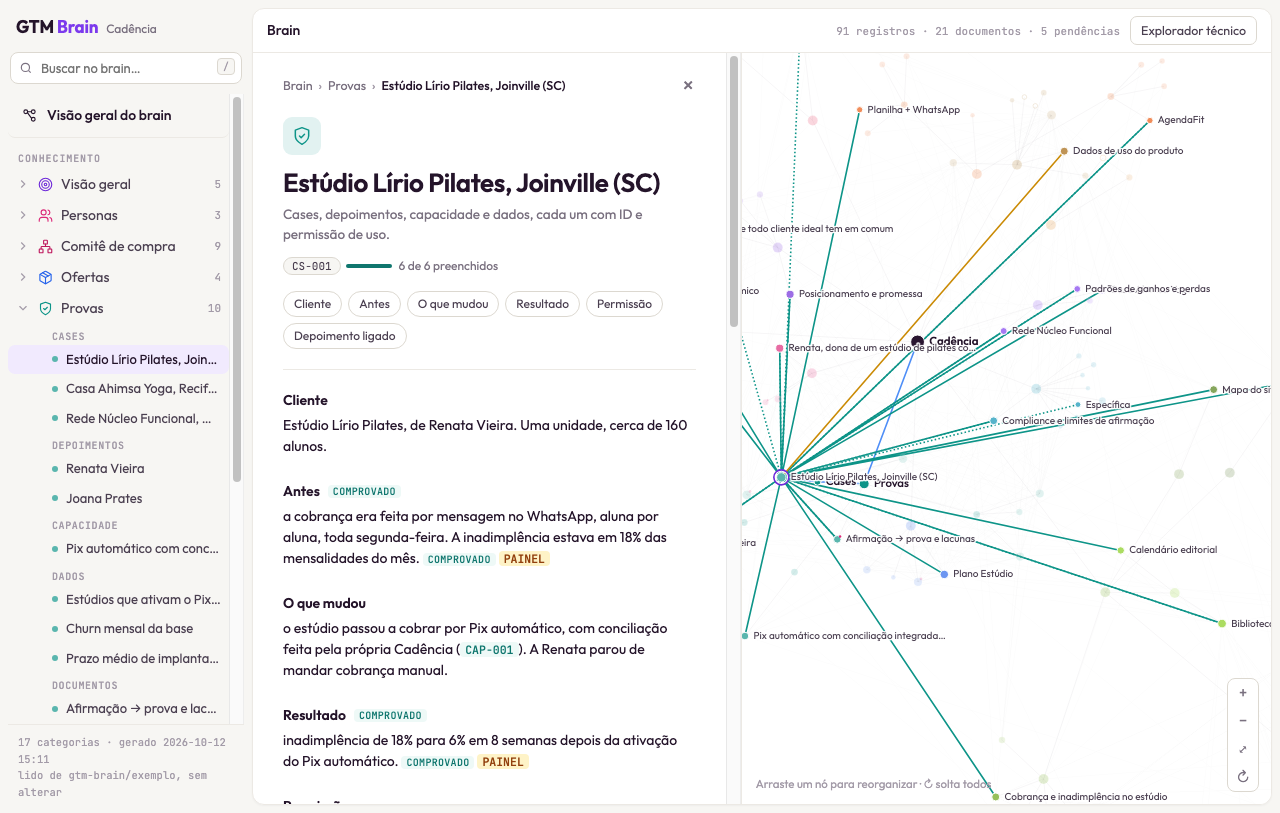
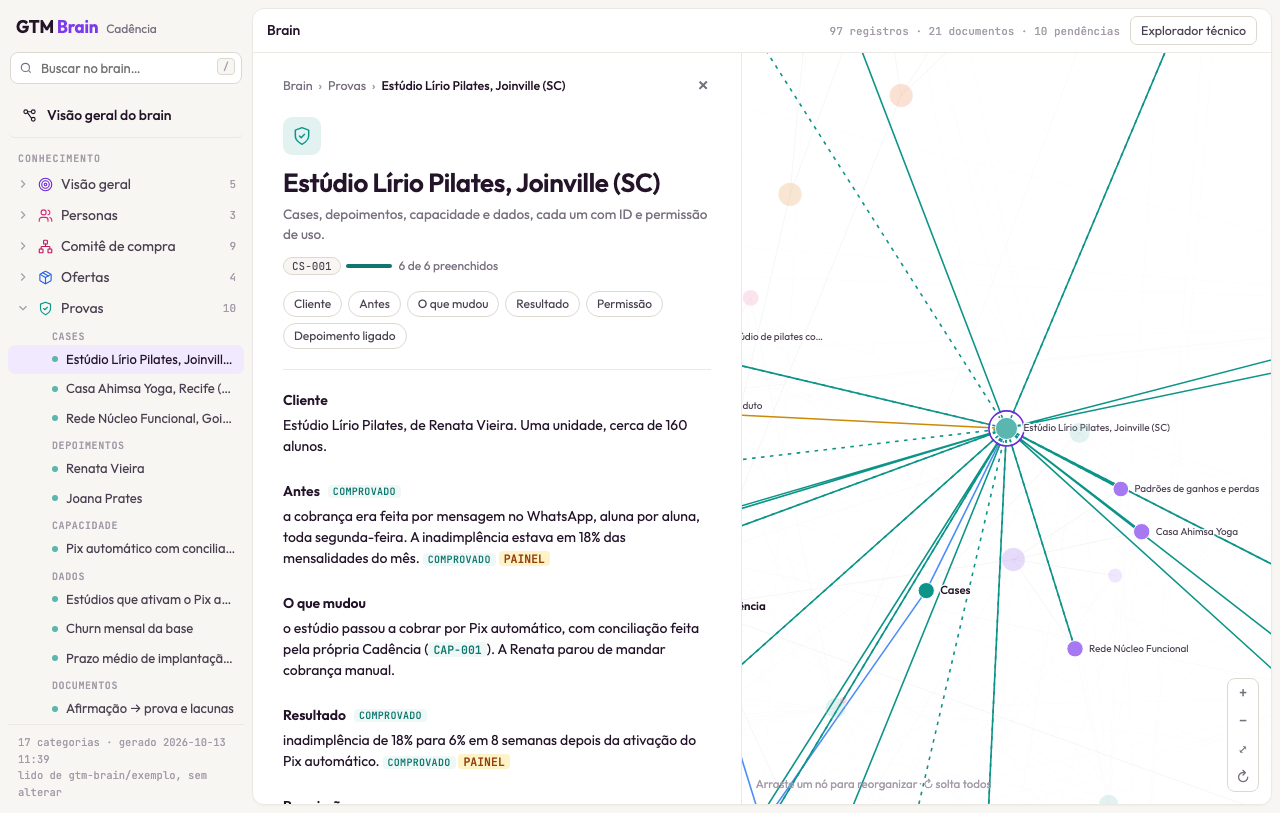
Nomes fictícios sem dono: BarraFixa no lugar de GymPro, perfis sociais .exemplo; capturas atualizadas

diff --git a/exemplo/07-site/DADOS-ESTRUTURADOS.md b/exemplo/07-site/DADOS-ESTRUTURADOS.md
@@ -5,7 +5,7 @@
 Fontes citadas neste arquivo:
 
 - `[SITE]` levantamento técnico do site por Tiago Ramos em 2026-10-02: contêiner do Google Tag Manager GTM-CAD (versão 41, publicada em 2026-09-15) e notas técnicas do site (Astro, schema no ar, FAQ de `/precos`, perfis, autores)
-- `[REDES]` insights do Instagram @cadencia.estudios e @marinaduarte.estudio, abr–set/2026
+- `[REDES]` insights do Instagram @cadencia.exemplo e @marinaduarte.exemplo, abr–set/2026
 - `[CONVERSA 2026-10-13]` respostas de Marina Duarte, CEO, sobre os dados estruturados
 
 Dados estruturados do site da Cadência (`https://cadencia.example`): os blocos JSON-LD de cada tipo de página, com os valores fixos da marca já trocados. O que muda a cada página fica entre chaves duplas dentro dos blocos de código, como `{{Título do post}}` e `{{AAAA-MM-DD}}`: troque a variável inteira, chaves incluídas. Preços iguais aos de `/05-oferta/OFERTA.md`; páginas iguais às de `/07-site/MAPA-DO-SITE.md`; autores iguais aos de `/06-seo/GEO-AEO.md`.
@@ -76,9 +76,9 @@ Fora por decisão: `Review` e `AggregateRating` (a Cadência não tem perfil em 
     { "@type": "Person", "name": "Tiago Ramos", "jobTitle": "CTO" }
   ],
   "sameAs": [
-    "https://www.instagram.com/cadencia.estudios",
-    "https://www.linkedin.com/company/cadencia-estudios",
-    "https://www.youtube.com/@cadencia.estudios"
+    "https://www.instagram.com/cadencia.exemplo",
+    "https://www.linkedin.com/company/cadencia-exemplo",
+    "https://www.youtube.com/@cadencia.exemplo"
   ],
   "contactPoint": [{
     "@type": "ContactPoint",
@@ -332,7 +332,7 @@ Um bloco por autor do blog `[SITE]` `[CONVERSA 2026-10-13]`.
   "jobTitle": "CEO",
   "url": "https://cadencia.example/sobre/equipe/marina-duarte",
   "sameAs": [
-    "https://www.instagram.com/marinaduarte.estudio"
+    "https://www.instagram.com/marinaduarte.exemplo"
   ],
   "worksFor": {
     "@type": "Organization",

diff --git a/exemplo/05-oferta/CONCORRENCIA.md b/exemplo/05-oferta/CONCORRENCIA.md
@@ -33,7 +33,7 @@ Dono das atualizações: Rafael Nunes, vendas e mídia paga.
 | Concorrente | Categoria | Sobreposição | Nível de ameaça | Última atualização |
 | --- | --- | --- | --- | --- |
 | AgendaFit | Direto | Alta | Alto | 2026-09-22 |
-| GymPro ERP | Indireto | Média | Médio | 2026-09-22 |
+| BarraFixa ERP | Indireto | Média | Médio | 2026-09-22 |
 | Planilha + WhatsApp | Substituto | Total | Alto | 2026-10-01 |
 | Não fazer nada | Substituto | Total | Médio | 2026-10-01 |
 
@@ -106,7 +106,7 @@ Dono das atualizações: Rafael Nunes, vendas e mídia paga.
 
 ---
 
-## Concorrente: GymPro ERP
+## Concorrente: BarraFixa ERP
 
 **Categoria:** Indireto
 **URL:** exemplo.com.br/gympro (fictício)
@@ -309,9 +309,9 @@ Dono das atualizações: Rafael Nunes, vendas e mídia paga.
 - Nenhum argumento só de preço.
 - Nenhuma afirmação que a gente não consegue sustentar com uma prova.
 
-### Battle card: GymPro ERP
+### Battle card: BarraFixa ERP
 
-**Quando o comprador diz "Também estamos olhando o GymPro":**
+**Quando o comprador diz "Também estamos olhando o BarraFixa":**
 
 1. Reconheça. "É um sistema completo, muito usado em academia com catraca."
 2. Pergunte. "Vocês usam catraca e musculação? Ou o dia a dia é turma, cobrança e reposição?"
@@ -323,7 +323,7 @@ Dono das atualizações: Rafael Nunes, vendas e mídia paga.
 
 **Não diga:**
 
-- Que o GymPro é caro ou lento sem a proposta deles em mãos.
+- Que o BarraFixa é caro ou lento sem a proposta deles em mãos.
 - Que a Cadência serve para academia com catraca. Não serve.
 - Qualquer número do case da Rede Núcleo Funcional antes da publicação.
 

diff --git a/exemplo/05-oferta/GANHOS-E-PERDAS.md b/exemplo/05-oferta/GANHOS-E-PERDAS.md
@@ -70,7 +70,7 @@ Um registro por negócio, sempre com os mesmos campos.
 
 ### Alternativas consideradas
 
-- GymPro ERP
+- BarraFixa ERP
 - AgendaFit
 - Continuar com Planilha + WhatsApp
 - Não fazer nada até a quinta unidade abrir
@@ -201,7 +201,7 @@ Um registro por negócio, sempre com os mesmos campos.
 
 ### Alternativas consideradas
 
-- GymPro ERP
+- BarraFixa ERP
 - Cadência
 - Continuar com os sistemas atuais
 
@@ -212,8 +212,8 @@ Um registro por negócio, sempre com os mesmos campos.
 
 ### O que fez ganhar (ou perder)
 
-- "O GymPro chegou com um preço fechado para a rede inteira. Vocês levaram nove dias para mandar uma proposta." `[LITERAL]` Fernando Aguiar
-- Contrato de 12 meses do GymPro não foi problema para uma rede desse tamanho. `[PARÁFRASE]`
+- "O BarraFixa chegou com um preço fechado para a rede inteira. Vocês levaram nove dias para mandar uma proposta." `[LITERAL]` Fernando Aguiar
+- Contrato de 12 meses do BarraFixa não foi problema para uma rede desse tamanho. `[PARÁFRASE]`
 
 ### Objeções
 
@@ -238,7 +238,7 @@ Um registro por negócio, sempre com os mesmos campos.
 
 ### Tags
 
-- Fora do ICP, treino funcional com musculação, Plano Rede, acima de R$ 60 mil por ano, Inbound, mídia paga, perdido para GymPro ERP, risco maior na etapa de proposta.
+- Fora do ICP, treino funcional com musculação, Plano Rede, acima de R$ 60 mil por ano, Inbound, mídia paga, perdido para BarraFixa ERP, risco maior na etapa de proposta.
 
 ---
 

diff --git a/exemplo/10-cerebro/CEREBRO.md b/exemplo/10-cerebro/CEREBRO.md
@@ -13,7 +13,7 @@ Fontes da marca:
 - `[FINANCEIRO]` orçamento de out/2026 a set/2027, aprovado pelos sócios em 2026-09-22
 - `[GA4]` exports do GA4 da propriedade cadencia.example, 2026-04-01 a 2026-09-30: páginas que vendem, blog, landing pages de anúncio e central de provas
 - `[ANUNCIOS]` Google Ads e Gerenciador de Anúncios da Meta, 2026-04-01 a 2026-09-30
-- `[REDES]` insights do Instagram @cadencia.estudios e @marinaduarte.estudio, abr–set/2026
+- `[REDES]` insights do Instagram @cadencia.exemplo e @marinaduarte.exemplo, abr–set/2026
 - `[EMAIL]` RD Station Marketing, newsletter "Diário do estúdio", 26 edições de abr–set/2026
 - `[SITE]` levantamento técnico do site por Tiago Ramos em 2026-10-02: contêiner do Google Tag Manager GTM-CAD (versão 41, publicada em 2026-09-15) e notas técnicas do site (Astro, schema no ar, FAQ de `/precos`, perfis, autores)
 - `[CSS]` export das variáveis e dos componentes do CSS do site (`src/styles/global.css`), feito por Tiago Ramos em 2026-10-02

diff --git a/exemplo/06-seo/GEO-AEO.md b/exemplo/06-seo/GEO-AEO.md
@@ -185,8 +185,8 @@ Checagem mensal feita por Bruna Alves. Mesma pergunta, sempre escrita do mesmo j
 
 | Pergunta | Motor | A Cadência é citada? | Quem aparece no lugar | Data |
 | --- | --- | --- | --- | --- |
-| melhor sistema para estúdio de pilates | ChatGPT | Não | GymPro ERP e AgendaFit | 2026-09-26 |
-| melhor sistema para estúdio de pilates | Perplexity | Não | GymPro ERP, AgendaFit e um post de blog genérico | 2026-09-26 |
+| melhor sistema para estúdio de pilates | ChatGPT | Não | BarraFixa ERP e AgendaFit | 2026-09-26 |
+| melhor sistema para estúdio de pilates | Perplexity | Não | BarraFixa ERP, AgendaFit e um post de blog genérico | 2026-09-26 |
 | como diminuir inadimplência em academia | Visão geral criada por IA do Google | Sim, o pilar `/blog/como-diminuir-inadimplencia` | n/a | 2026-09-26 |
 | app para estúdio de yoga | Gemini | Não | AgendaFit | 2026-09-26 |
 

diff --git a/exemplo/09-dados/DESTAQUES.md b/exemplo/09-dados/DESTAQUES.md
@@ -7,7 +7,7 @@ Destaques da Cadência de abr. a set. de 2026: os ativos que mais geraram teste 
 Fontes citadas neste arquivo:
 
 - `[GA4]` exports do GA4 da propriedade cadencia.example, 2026-04-01 a 2026-09-30
-- `[REDES]` insights do Instagram @cadencia.estudios e @marinaduarte.estudio, abr–set/2026
+- `[REDES]` insights do Instagram @cadencia.exemplo e @marinaduarte.exemplo, abr–set/2026
 - `[EMAIL]` RD Station Marketing, newsletter "Diário do estúdio", 26 edições de abr–set/2026
 - `[ANUNCIOS]` Google Ads e Gerenciador de Anúncios da Meta, 2026-04-01 a 2026-09-30
 - `[VENDAS]` RD Station CRM, relatório de funil por origem do negócio, 2026-04-01 a 2026-09-30

diff --git a/exemplo/10-cerebro/contexto-criativo/gosto.md b/exemplo/10-cerebro/contexto-criativo/gosto.md
@@ -57,7 +57,7 @@ Uma lista curta de sim ou não que roda em todo rascunho. Fique com os cinco a o
 - [ ] [Teste]
 - [ ] [Teste]
 
-> Exemplo para a Cadência: uma dona de estúdio que nunca usou sistema entenderia cada frase? Tem uma coisa que ela pode fazer antes do próximo vencimento? Alguma frase parece ter saído do site da AgendaFit ou do GymPro ERP?
+> Exemplo para a Cadência: uma dona de estúdio que nunca usou sistema entenderia cada frase? Tem uma coisa que ela pode fazer antes do próximo vencimento? Alguma frase parece ter saído do site da AgendaFit ou do BarraFixa ERP?
 
 ## 4. Registro de recusas
 

diff --git a/marca/10-cerebro/contexto-criativo/gosto.md b/marca/10-cerebro/contexto-criativo/gosto.md
@@ -57,7 +57,7 @@ Uma lista curta de sim ou não que roda em todo rascunho. Fique com os cinco a o
 - [ ] [Teste]
 - [ ] [Teste]
 
-> Exemplo para a Cadência: uma dona de estúdio que nunca usou sistema entenderia cada frase? Tem uma coisa que ela pode fazer antes do próximo vencimento? Alguma frase parece ter saído do site da AgendaFit ou do GymPro ERP?
+> Exemplo para a Cadência: uma dona de estúdio que nunca usou sistema entenderia cada frase? Tem uma coisa que ela pode fazer antes do próximo vencimento? Alguma frase parece ter saído do site da AgendaFit ou do BarraFixa ERP?
 
 ## 4. Registro de recusas
 

diff --git a/marca/05-oferta/GANHOS-E-PERDAS.md b/marca/05-oferta/GANHOS-E-PERDAS.md
@@ -161,7 +161,7 @@ Quando tiver 10 registros, preencha este resumo. Revise a cada trimestre.
 
 **O problema:** a unidade mais nova fechou o trimestre com 14% de inadimplência, e duas recepcionistas passavam a manhã cobrando aluno pelo WhatsApp.
 
-**Alternativas:** GymPro ERP, AgendaFit e continuar com planilha + WhatsApp.
+**Alternativas:** BarraFixa ERP, AgendaFit e continuar com planilha + WhatsApp.
 
 **O que quase fez perder:** Joana já tinha trocado de sistema duas vezes e perdido histórico de pagamento nas duas. Na terceira reunião ela insistiu: "o que garante que não vai dar o mesmo problema?"
 
